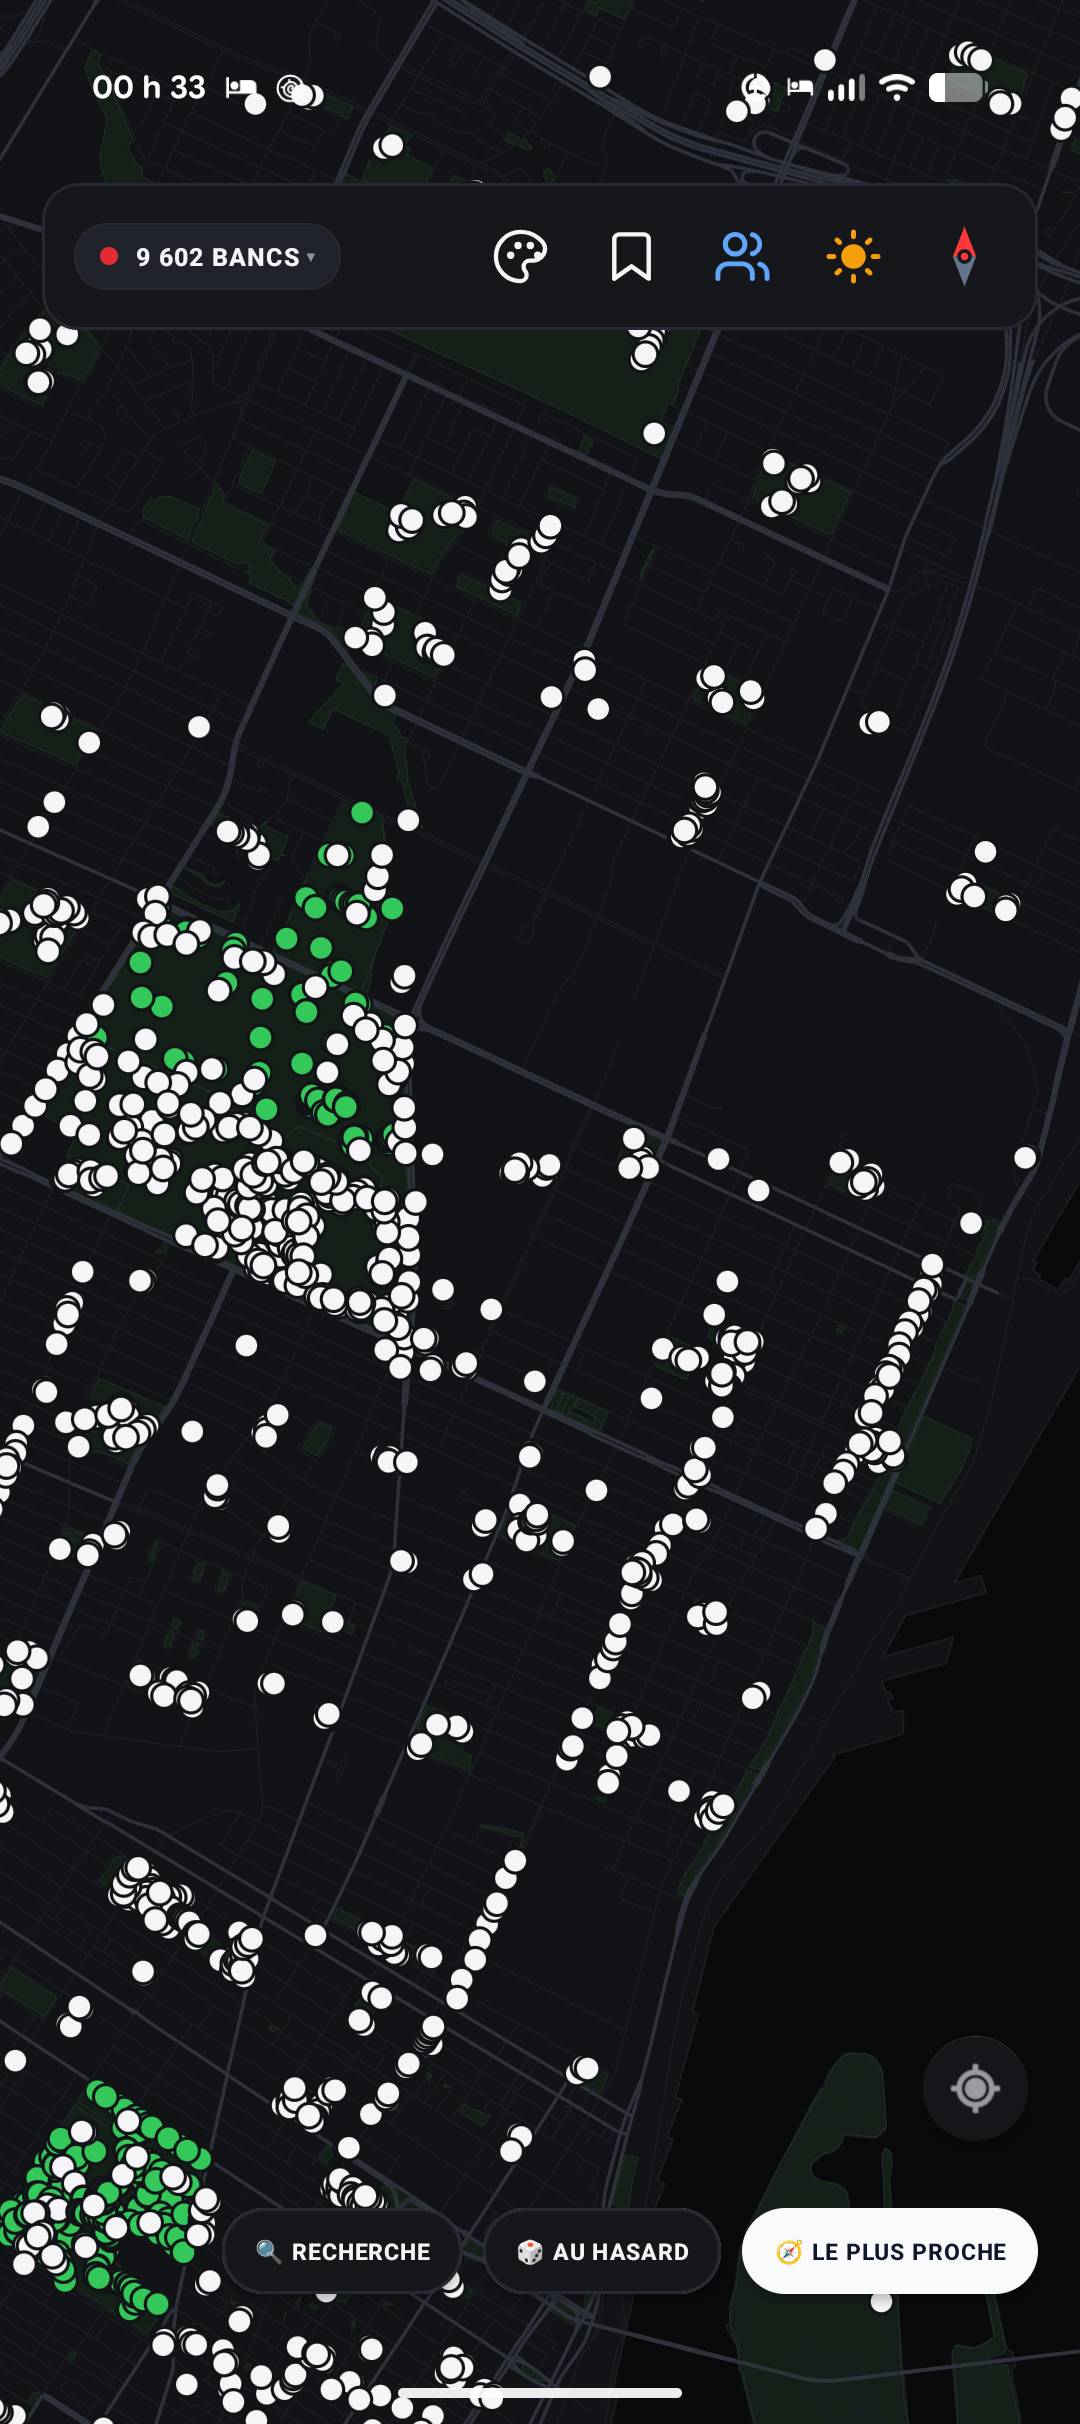
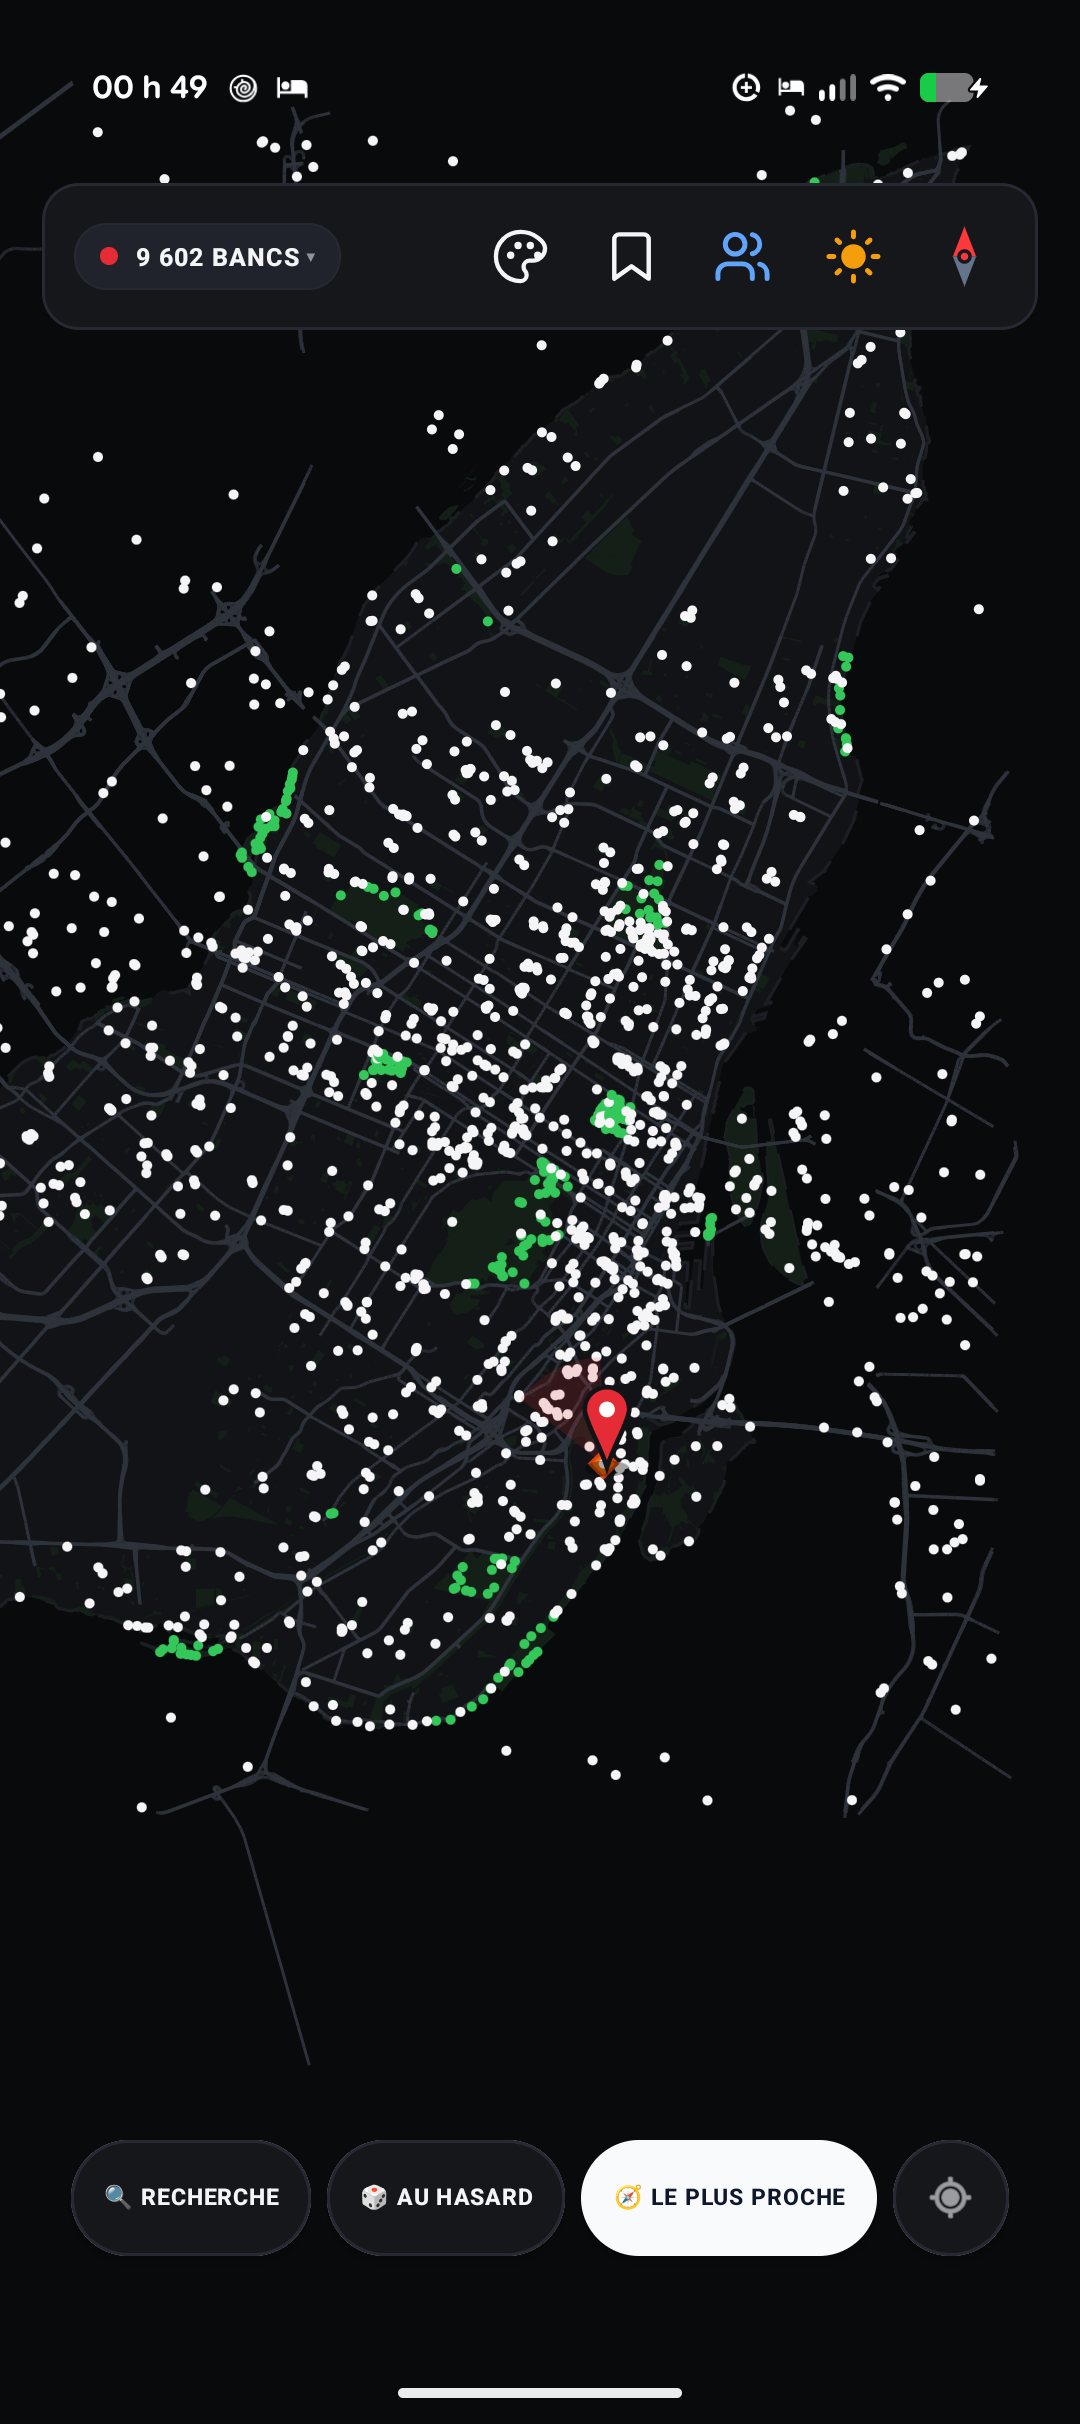
feat(bottom-nav): align all 4 actions on single row with rightmost location button, matched 44dp heights, and unclipped shadows

diff --git a/app/src/main/java/com/machine/benchmap/MainActivity.java b/app/src/main/java/com/machine/benchmap/MainActivity.java
@@ -139,7 +139,7 @@ public class MainActivity extends AppCompatActivity implements MontrealBenchMapV
     private int selectedBlurRadius = MeetupKey.BLUR_DISTRICT;
 
     // Controls
-    private FloatingActionButton fabMyLocation;
+    private MaterialButton fabMyLocation;
     private MaterialButton btnSearch;
     private MaterialButton btnRandom;
     private MaterialButton btnNearest;
@@ -485,8 +485,9 @@ public class MainActivity extends AppCompatActivity implements MontrealBenchMapV
 
         // 2. Bottom Floating Controls
         if (fabMyLocation != null) {
-            fabMyLocation.setBackgroundTintList(ColorStateList.valueOf(bgCard));
-            fabMyLocation.setImageTintList(ColorStateList.valueOf(textPrimary));
+            fabMyLocation.setBackgroundColor(bgCard);
+            fabMyLocation.setIconTint(ColorStateList.valueOf(textPrimary));
+            fabMyLocation.setStrokeColor(ColorStateList.valueOf(borderCard));
         }
         if (btnSearch != null) {
             btnSearch.setBackgroundColor(bgCard);
